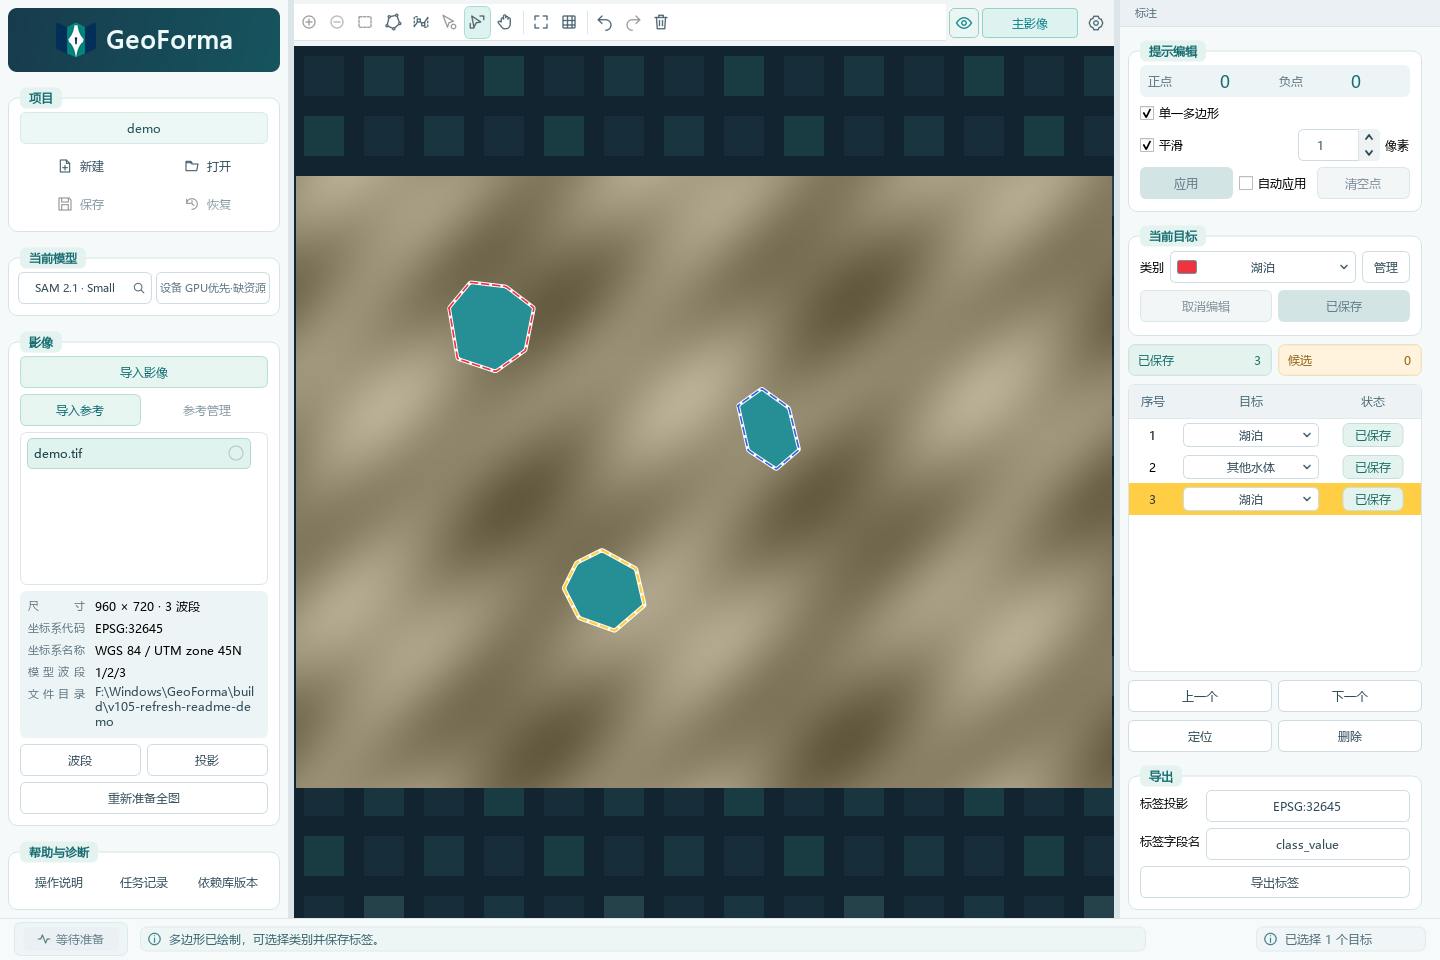
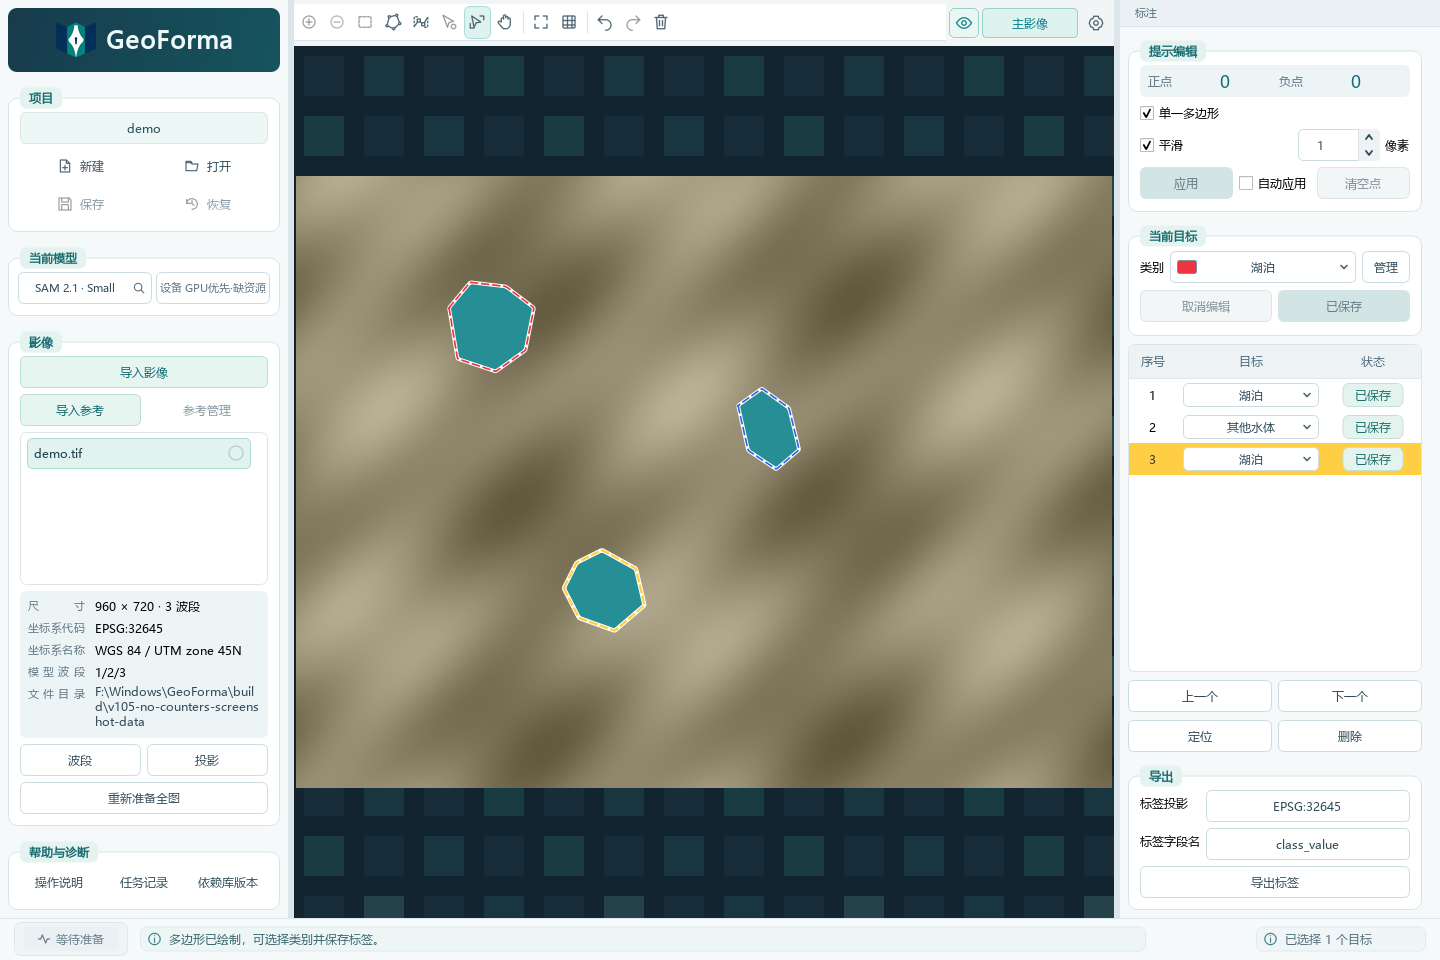
Remove obsolete annotation status filters

Changed region(s): [[0.7812, 0.3438, 1.0, 0.5625], [0.0938, 0.7188, 0.1875, 0.75]]

diff --git a/geoforma/ui/panels/annotation.py b/geoforma/ui/panels/annotation.py
@@ -107,7 +107,9 @@ def build_reshape(w,layout):
 
 def build_label_list(w,layout):
     from ..label_summary import LabelSummary
-    w.label_count=LabelSummary();w.label_filter=w.label_count;w.label_filter.currentIndexChanged.connect(w.refresh_labels);layout.addWidget(w.label_count)
+    # Keep the internal filter for legacy project handling, without displaying
+    # the obsolete saved/candidate counters in the annotation panel.
+    w.label_count=LabelSummary();w.label_filter=w.label_count;w.label_filter.currentIndexChanged.connect(w.refresh_labels)
     from ..label_table import LabelTable
     w.labels_table=LabelTable()
     w.labels_table.setHorizontalHeaderLabels(['序号',ui_text('annotation.build_label_list.050'),ui_text('annotation.build_label_list.051')])

diff --git a/tools/capture_release_readme.py b/tools/capture_release_readme.py
@@ -58,9 +58,6 @@ def main():
     assert any(r.status=='未保存' for r in w.label_presenter.rows)
     shot('main-window.png')
     w.confirm();w.set_tool('select');w.select_label(w.project['labels'][-1]['id']);shot('step4-export.png')
-    w.label_count.saved_button.setFocus();app.processEvents()
-    assert w.label_count.saved_button.hasFocus()
-    assert w.label_count.grab().save(str(out/'status-filters.png'))
     w.view.setFocus()
     w.begin_reshape(auto=True)
     for point in ((190,150),(185,240),(245,250),(245,200)):w.add_reshape_point(*point)
